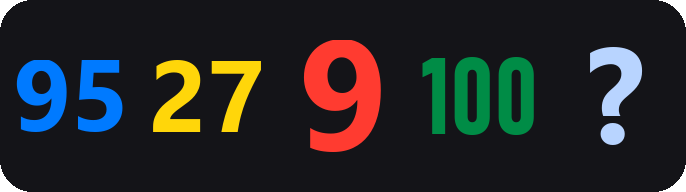
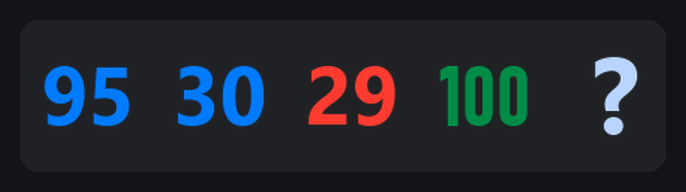
feat: remove yellow state and use red below 30 percent

diff --git a/app.py b/app.py
@@ -77,10 +77,21 @@ DEFAULT_UPDATE_MODE = "auto"
 UPDATE_MODES = ("auto", "notify")
 
 COLOR_NORMAL = (0, 122, 255, 255)       # синий
-COLOR_WARN = (255, 214, 10, 255)        # яркий жёлтый
 COLOR_LOW = (255, 59, 48, 255)          # яркий красный
 COLOR_CHARGE = (0, 140, 70, 255)        # тёмно-зелёный
 COLOR_STALE = (184, 212, 255, 255)      # светло-голубой вместо тусклого серого
+
+
+def battery_color(
+    percent: int, charging: bool, full: bool
+) -> tuple[int, int, int, int]:
+    """Цвет цифр: зелёный при зарядке, красный ниже 30%, иначе синий."""
+    if charging or full:
+        return COLOR_CHARGE
+    if percent < 30:
+        return COLOR_LOW
+    return COLOR_NORMAL
+
 
 # Обычное обновление — раз в 30 минут. Во время зарядки чаще, чтобы
 # не пропустить 100%; после неудачного опроса — каждые 20 секунд, чтобы
@@ -509,14 +520,11 @@ class BatteryTray:
             text, color = "?", COLOR_STALE
         elif self._online:
             text = str(self._last.percent)
-            if self._last.charging or self._last.full:
-                color = COLOR_CHARGE
-            elif self._last.percent <= 15:
-                color = COLOR_LOW
-            elif self._last.percent <= 30:
-                color = COLOR_WARN
-            else:
-                color = COLOR_NORMAL
+            color = battery_color(
+                self._last.percent,
+                self._last.charging,
+                self._last.full,
+            )
         else:
             # Показываем последнее значение светло-голубым, пока оно не устарело.
             text = str(self._last.percent) if age < 900 else "?"

diff --git a/tests/test_app_colors.py b/tests/test_app_colors.py
@@ -1,0 +1,23 @@
+import app
+
+
+def test_red_below_thirty_percent():
+    assert app.battery_color(0, False, False) == app.COLOR_LOW
+    assert app.battery_color(15, False, False) == app.COLOR_LOW
+    assert app.battery_color(29, False, False) == app.COLOR_LOW
+
+
+def test_blue_from_thirty_percent():
+    assert app.battery_color(30, False, False) == app.COLOR_NORMAL
+    assert app.battery_color(31, False, False) == app.COLOR_NORMAL
+    assert app.battery_color(100, False, False) == app.COLOR_NORMAL
+
+
+def test_charging_and_full_are_green():
+    assert app.battery_color(10, True, False) == app.COLOR_CHARGE
+    assert app.battery_color(99, True, False) == app.COLOR_CHARGE
+    assert app.battery_color(100, False, True) == app.COLOR_CHARGE
+
+
+def test_yellow_is_not_used():
+    assert not hasattr(app, "COLOR_WARN")

diff --git a/version.py b/version.py
@@ -1,3 +1,3 @@
 """Application version used by the updater and diagnostics."""
 
-APP_VERSION = "1.5.1"
+APP_VERSION = "1.5.2"

diff --git a/README.ru.md b/README.ru.md
@@ -38,8 +38,8 @@ Aurora-устройстве здесь не проверялась.
 - для трёхзначного «100» используется узкий шрифт, поэтому цифры не мельчают;
 - **точный процент с шагом 1 %** для Compx: он вычисляется по напряжению
   батареи и той же кривой, что в официальном ПО LAMZU;
-- контрастные цвета без обводки: синий — норма, жёлтый — ≤ 30 %,
-  красный — ≤ 15 %, тёмно-зелёный — зарядка, светло-голубой — нет свежих данных;
+- контрастные цвета без обводки: синий — норма, красный — ниже 30 %,
+  тёмно-зелёный — зарядка, светло-голубой — нет свежих данных;
 - **переключение языка интерфейса** русский/английский (меню → Язык); выбор
   запоминается, при первом запуске берётся язык системы;
 - **автообновление**: при запуске и затем раз в шесть часов приложение

diff --git a/README.md b/README.md
@@ -38,8 +38,8 @@ real Aurora hardware here.
 - a condensed font is used for the three-digit `100`, so the digits stay large;
 - **precise percentage with 1% steps** for Compx: it is calculated from the
   battery voltage using the same curve as the official LAMZU software;
-- bold colours without an outline: blue — normal, yellow — ≤ 30%,
-  red — ≤ 15%, dark green — charging, light blue — no fresh data;
+- bold colours without an outline: blue — normal, red — below 30%,
+  dark green — charging, light blue — no fresh data;
 - **UI language switch** between English and Russian (menu → Language); the
   choice is remembered, and the system language is used on first run;
 - **automatic updates**: on startup and every six hours the app checks GitHub
